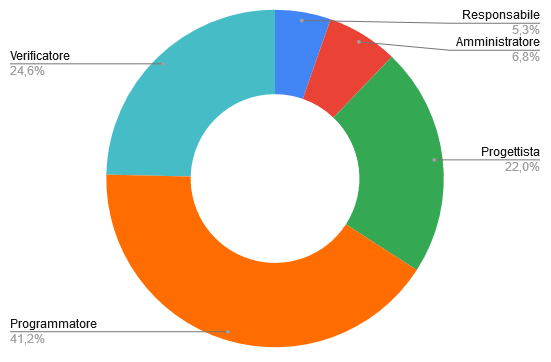
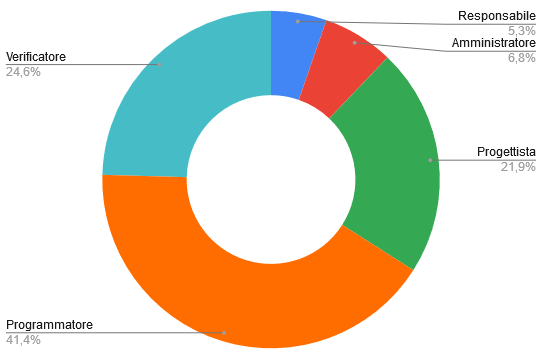
sistemato pdp

diff --git a/Piano_di_progetto/sezioni/preventivo.tex b/Piano_di_progetto/sezioni/preventivo.tex
@@ -93,10 +93,10 @@ Alessandro Canesso & - & 5 & - & 10 & 9 & 8 & 32 \\
 Victor Dutca & 3 & 6 & 4 & 10 & 7 & - & 30 \\
 Fouad Farid & - & 5 & - & 14 & - & 11 & 30 \\
 Simone Meneghin & 6 & - & 8 & 10 & 6 & - & 30 \\
-Olivier Utshudi & - & 4 & - & 8 & 7 & 12 & 31 \\
+Olivier Utshudi & - & 4 & - & 8 & 6 & 12 & 30 \\
 Davide Zilio & 3 & - & 13 & - & - & 14 & 30 \\
 \rowcolor{lastrowcolor}
-\textbf{Ore totali ruolo} & \textbf{12} & \textbf{20} & \textbf{35} & \textbf{59} & \textbf{34} & \textbf{53} & \textbf{213} \\
+\textbf{Ore totali ruolo} & \textbf{12} & \textbf{20} & \textbf{35} & \textbf{59} & \textbf{33} & \textbf{53} & \textbf{212} \\
 \end{tabular}
 \end{table}
  
@@ -123,10 +123,10 @@ Responsabile & 12 & 360€ \\
 Amministratore & 20 & 400€ \\
 Analista & 35 & 875€ \\
 Progettista & 59 & 1298€ \\
-Programmatore & 34 & 510€  \\
+Programmatore & 33 & 495€  \\
 Verificatore & 53 & 795€  \\
 \rowcolor{lastrowcolor}
-\textbf{Totale} & \textbf{213} & \textbf{4238€}  \\
+\textbf{Totale} & \textbf{213} & \textbf{4223€}  \\
 \end{tabular}
 \end{table}
  
@@ -157,10 +157,10 @@ Alessandro Canesso & 4 & 3 & - & 10 & 18 & 11 & 46 \\
 Victor Dutca & - & 8 & - & 10 & 20 & 10 & 48 \\
 Fouad Farid & 4 & - & - & 12 & 20 & 12 & 48 \\
 Simone Meneghin & 2 & - & - & 12 & 22 & 14 & 50 \\
-Olivier Utshudi & 8 & - & - & 8 & 21 & 12 & 49 \\
+Olivier Utshudi & 8 & - & - & 8 & 22 & 12 & 50 \\
 Davide Zilio & - & 6 & - & 10 & 20 & 12 & 48 \\
 \rowcolor{lastrowcolor}
-\textbf{Ore totali ruolo} & \textbf{18} & \textbf{23} & \textbf{0} & \textbf{74} & \textbf{139} & \textbf{83} & \textbf{337} \\
+\textbf{Ore totali ruolo} & \textbf{18} & \textbf{23} & \textbf{0} & \textbf{74} & \textbf{140} & \textbf{83} & \textbf{338} \\
 \end{tabular}
 \end{table}
  
@@ -187,10 +187,10 @@ Responsabile & 18 & 540€ \\
 Amministratore & 23 & 460€ \\
 Analista & 0 & 0€ \\
 Progettista & 74 & 1628€ \\
-Programmatore & 139 & 2085€  \\
+Programmatore & 140 & 2100€  \\
 Verificatore & 83 & 1245€  \\
 \rowcolor{lastrowcolor}
-\textbf{Totale} & \textbf{337} & \textbf{5958€}  \\
+\textbf{Totale} & \textbf{338} & \textbf{5973€}  \\
 \end{tabular}
 \end{table}
  

diff --git a/Lettera_di_presentazione/sezioni/letter.tex b/Lettera_di_presentazione/sezioni/letter.tex
@@ -45,7 +45,7 @@ documenti, forniti in allegato:
 \end{itemize}
 
 \noindent Come descritto nel documento \textit{Piano\_di\_Progetto\_v1.0.0}, il gruppo ha preso l'impegno di consegnare il prodotto richiesto entro il 2020-07-13, ovvero la prima data fissata per la Revisione di Accettazione, preventivando costi per un importo 
-totale di \textbf{\EUR{13.359,00}}.\\
+totale di \textbf{\EUR{13.290,00}}.\\
 Rimaniamo a Sua completa disposizione per qualsiasi chiarimento.
 
 \vspace{0.5cm}
